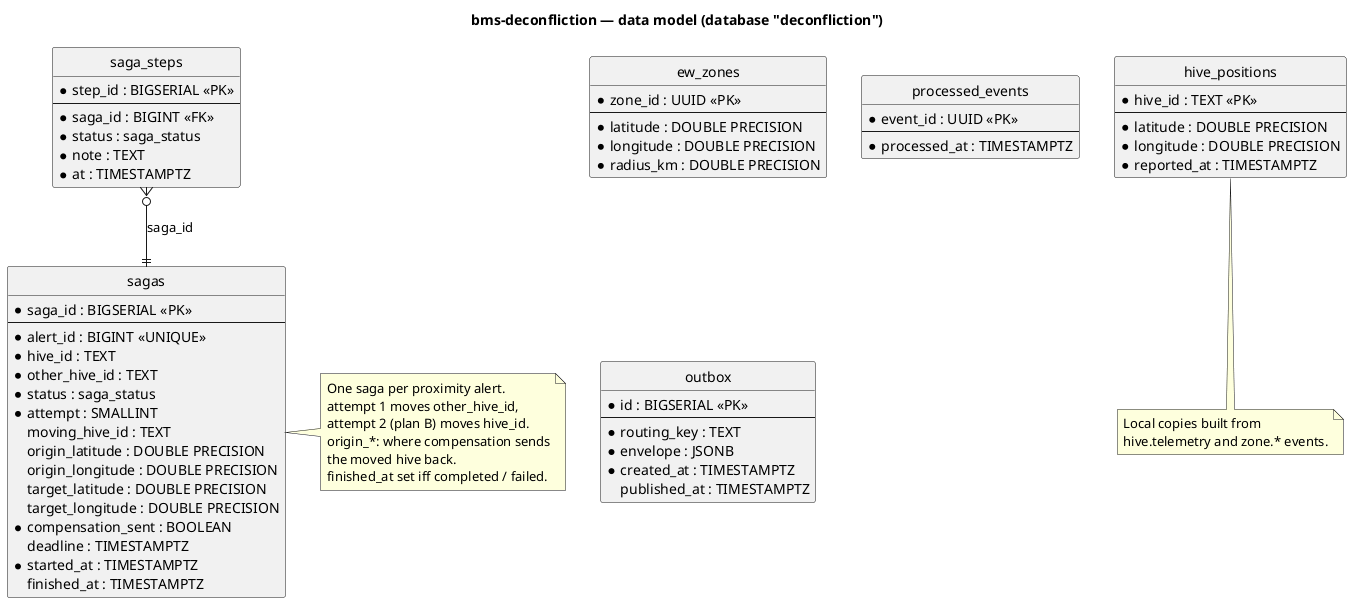
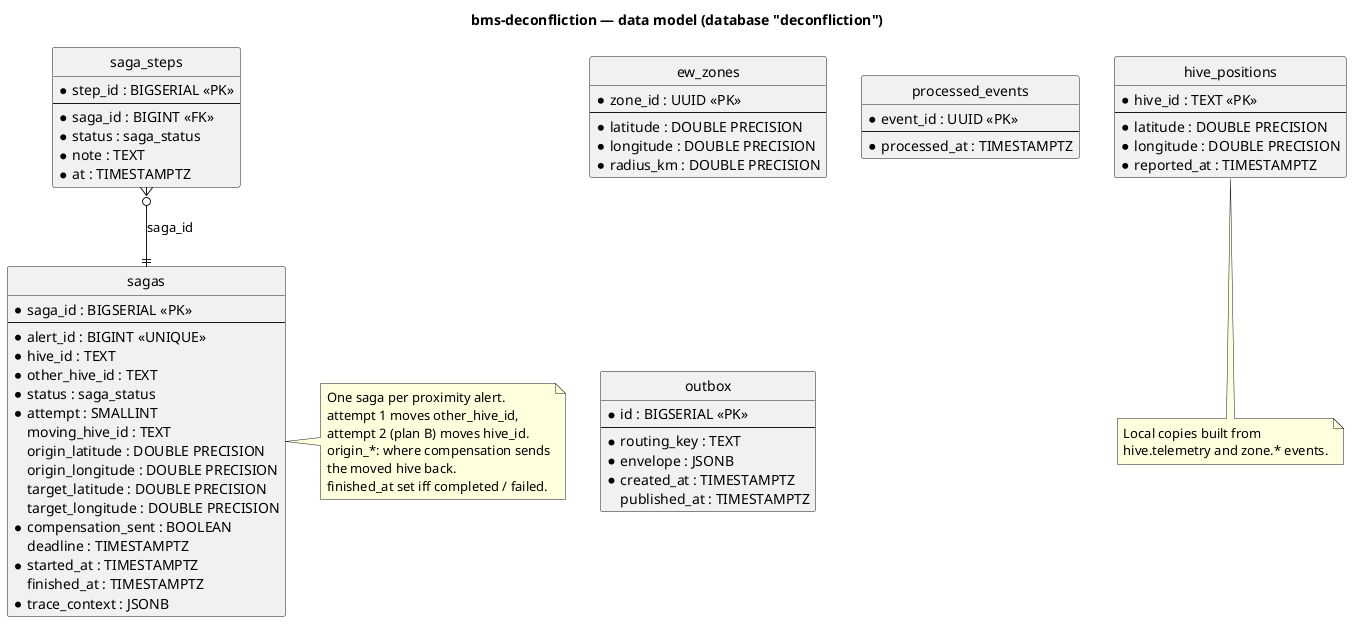
(Docs) Feat: README with architecture, running and configuration

diff --git a/README.md b/README.md
@@ -1,29 +1,185 @@
-# Design of Distributed Systems
+# Battlefield Management System
 
-University Labs.
+Labs of the course «Проектування розподілених систем» (Design of Distributed Systems), KPI.
 
-**Author:** Kovalov Oleksandr
-
-**Group:** ІМ-51мн
+**Author:** Kovalov Oleksandr, group ІМ-51мн
 
 > [!NOTE]
-> Work in Progress.
+> Work in progress: deployment to the cloud (lab 5) is being done.
 
-- Communication Channel Swagger: http://localhost:8080/swagger
-- Map: http://localhost:8081
+Battlefield Management System (BMS) observes drone swarms (hives) of the lecturer's
+[Hive Emulator](https://gitlab.com/kzotkin/hiveemulator). It keeps the state of every
+hive, watches the electronic warfare (EW) zones, raises alerts when a hive enters a zone
+or two hives come too close, and separates such hives automatically with a saga.
 
-- RabbitMQ Admin: http://localhost:15672 (Dev Creds: bms / bms)
-- BMS Swagger: http://localhost:9000/swagger/
+![Component diagram](docs/diagrams/png/component.png)
 
-### Docker
+## Features
 
-```bash
-docker compose -f infra/hiveemulator/docker-compose.yml up -d   # start cc & hivemind
-docker compose -f infra/hiveemulator/docker-compose.yml down    # stop cc & hivemind
+- **State reconstruction** from the Communication Control message bus (Redis Pub/Sub):
+  position, speed, `moving` / `stopped` / `inactive` / `disconnected` status, kept in PostgreSQL.
+- **EW zones** polled from Communication Control, with history (`active_from` / `active_to`).
+- **Monitoring**: a hive inside an EW zone, two hives closer than 500 m (with hysteresis).
+- **Deconfliction saga**: commands one hive to a safe point; on failure compensates
+  (sends it back) and tries plan B with the other hive.
+- **Reliable messaging**: RabbitMQ with durable quorum queues, publisher confirms,
+  at-least-once delivery, idempotent consumers, transactional outbox.
+- **REST API** with OpenAPI / Swagger UI.
+- **Desktop client** (egui) with an OpenStreetMap map of hives, zones, alerts and sagas.
+- **Distributed tracing** (OpenTelemetry → Jaeger): one bus message can be followed
+  through every service, including the saga's command to Communication Control.
+
+## Architecture
+
+| Component | Role |
+|---|---|
+| `bms-ingest` | Subscribes to Redis `HiveChannel`, polls EW zones, translates both into BMS events and publishes them to RabbitMQ. Runs as a **single instance**. |
+| `bms-state` | Projects events into its database (`state`), detects zone crossings, proximity and inactive hives, serves the REST API on port 9000. |
+| `bms-deconfliction` | Orchestrates the deconfliction saga in its own database (`deconfliction`) and sends move commands to Communication Control. |
+| `bms-ui` | Desktop client of the `bms-state` API. |
+| `bms-common` | Library shared by the services: events, RabbitMQ, database, outbox, geometry, telemetry. |
+
+Services talk only through the RabbitMQ topic exchange `bms.events`; each has its own
+database and database user (database per service).
+
+| Routing key | Producer | Consumers |
+|---|---|---|
+| `hive.connected`, `hive.reconnected`, `hive.disconnected`, `hive.telemetry`, `hive.moved`, `hive.stopped` | ingest | state; deconfliction (`hive.telemetry`, `hive.moved`) |
+| `zone.activated`, `zone.deactivated`, `zone.snapshot` | ingest | state, deconfliction |
+| `alert.zone_entered`, `alert.proximity` | state | deconfliction (`alert.proximity`) |
+| `saga.<status>` | deconfliction | state |
+
+More documentation:
+
+- [Hive Emulator protocol](docs/hive-emulator-protocol.md): what Communication Control sends and accepts.
+- [Data model](docs/data-model.md): both databases, guarantees and known limitations.
+- [Diagrams](docs/diagrams): PlantUML sources and rendered PNGs.
+
+## Repository layout
+
+```
+crates/            Rust workspace: bms-common, bms-ingest, bms-state, bms-deconfliction, bms-ui
+Dockerfile         one multi-stage Dockerfile for the three services (--target <service>)
+infra/hiveemulator lecturer's system: Redis, Communication Control, map, HiveMinds (git submodule + compose)
+infra/bms          RabbitMQ, PostgreSQL, Jaeger and the BMS services (compose)
+docs/              protocol notes, data model, diagrams
 ```
 
+## Running locally
+
+Requirements: Docker with Compose, Rust 1.100 (installed automatically by `rust-toolchain.toml`).
+
 ```bash
-docker compose -f infra/bms/docker-compose.yml up -d            # start bms
-docker compose -f infra/bms/docker-compose.yml down             # stop (data kept)
-docker compose -f infra/bms/docker-compose.yml down -v          # stop AND wipe data (re-runs init.sql next time)
+git clone --recurse-submodules <this repository>
+# or, in an existing clone:
+git submodule update --init
 ```
+
+**1. The lecturer's system** (Redis, Communication Control, map, two hives):
+
+```bash
+docker compose -f infra/hiveemulator/docker-compose.yml up -d
+```
+
+**2. BMS** — everything in containers:
+
+```bash
+docker compose -f infra/bms/docker-compose.yml --profile app up -d --build
+```
+
+Without `--profile app` only the infrastructure starts (RabbitMQ, PostgreSQL, Jaeger),
+and the services can be run with cargo instead, e.g. for debugging:
+
+```bash
+cargo run -p bms-ingest
+cargo run -p bms-state
+cargo run -p bms-deconfliction
+```
+
+**3. The desktop client:**
+
+```bash
+cargo run -p bms-ui --release
+```
+
+Useful commands:
+
+```bash
+docker compose -f infra/bms/docker-compose.yml --profile app logs -f bms-state   # logs of one service
+docker compose -f infra/bms/docker-compose.yml --profile app stop bms-ingest bms-state bms-deconfliction
+docker compose -f infra/bms/docker-compose.yml down       # stop, data kept
+docker compose -f infra/bms/docker-compose.yml down -v    # stop and wipe data (re-runs init.sql)
+docker compose -f infra/hiveemulator/docker-compose.yml restart hive-1 hive-2   # hives back to start
+```
+
+### Addresses
+
+| What | Address | Credentials |
+|---|---|---|
+| BMS API (Swagger UI) | http://localhost:9000/swagger/ | — |
+| Jaeger (traces) | http://localhost:16686 | — |
+| RabbitMQ management | http://localhost:15672 | `bms` / `bms` |
+| PostgreSQL | `localhost:5432`, databases `state`, `deconfliction` | `bms_state` / `bms_state`, `bms_deconfliction` / `bms_deconfliction` |
+| Communication Control (Swagger UI) | http://localhost:8080/swagger | — |
+| Lecturer's web map | http://localhost:8081 | — |
+
+All credentials are for local development only.
+
+### Configuration
+
+Every service reads environment variables (or a `.env` file); the defaults fit the local setup.
+
+| Variable | Used by | Default |
+|---|---|---|
+| `RABBITMQ_URL` | ingest, state, deconfliction | `amqp://bms:bms@localhost:5672` |
+| `REDIS_URL` | ingest | `redis://localhost:6379` |
+| `REDIS_CHANNEL` | ingest | `HiveChannel` |
+| `CC_URL` | ingest, deconfliction | `http://localhost:8080` |
+| `ZONE_POLL_INTERVAL_MS` | ingest | `2000` |
+| `DATABASE_URL` | state, deconfliction | `postgres://bms_state:bms_state@localhost:5432/state`, `postgres://bms_deconfliction:bms_deconfliction@localhost:5432/deconfliction` |
+| `API_ADDR` | state | `0.0.0.0:9000` |
+| `HIVE_INACTIVE_AFTER_SECS` | state | `30` |
+| `PROXIMITY_THRESHOLD_M` | state | `500` |
+| `SAFE_DISTANCE_M` | deconfliction | `1000` |
+| `SEPARATION_M` | deconfliction | `600` |
+| `COMMAND_TIMEOUT_SECS` | deconfliction | `15` |
+| `SEPARATION_TIMEOUT_SECS` | deconfliction | `120` |
+| `OTEL_EXPORTER_OTLP_ENDPOINT` | ingest, state, deconfliction | unset: traces are not exported. `http://localhost:4318` sends them to the local Jaeger |
+| `RUST_LOG` | all | `info` |
+| `BMS_API_URL` | ui | `http://localhost:9000` |
+
+### Tracing
+
+Each event carries the W3C trace context of the span that created it, so a consumer
+continues the producer's trace. Sagas store the context of their alert, so the commands
+the saga engine sends later stay in the same trace. In Jaeger, pick the service
+`bms-deconfliction` and the operation `saga start attempt` to see a whole chain:
+
+```
+bms-ingest         receive HiveChannel
+bms-ingest         publish hive.telemetry
+bms-state          consume hive.telemetry
+bms-state          publish alert.proximity        (transactional outbox)
+bms-deconfliction  consume alert.proximity        (saga created)
+bms-deconfliction  saga start attempt             (engine tick)
+bms-deconfliction  PATCH /api/v1/client/hive      (command to Communication Control)
+bms-state          consume saga.command_sent
+```
+
+## Development
+
+```bash
+cargo build
+cargo test
+cargo clippy --all-targets   # pedantic + nursery lints, no unwrap/expect/panic outside tests
+```
+
+Diagrams are rendered with PlantUML:
+
+```bash
+plantuml -tpng -o ../png docs/diagrams/plantuml/*.puml
+```
+
+## License
+
+MIT (declared in `Cargo.toml`).

diff --git a/docs/data-model.md b/docs/data-model.md
@@ -187,6 +187,7 @@ positions and active zones, no statuses and no history.
 | `deadline`          | `TIMESTAMPTZ`      | yes  | The current step must finish by then; NULL when finished |
 | `started_at`        | `TIMESTAMPTZ`      | no   | |
 | `finished_at`       | `TIMESTAMPTZ`      | yes  | Set exactly for `completed` and `failed` (`CHECK`) |
+| `trace_context`     | `JSONB`            | no   | W3C trace context of the alert; the engine continues its trace (migration 0003) |
 
 ### `saga_steps` — journal of every saga transition
 
